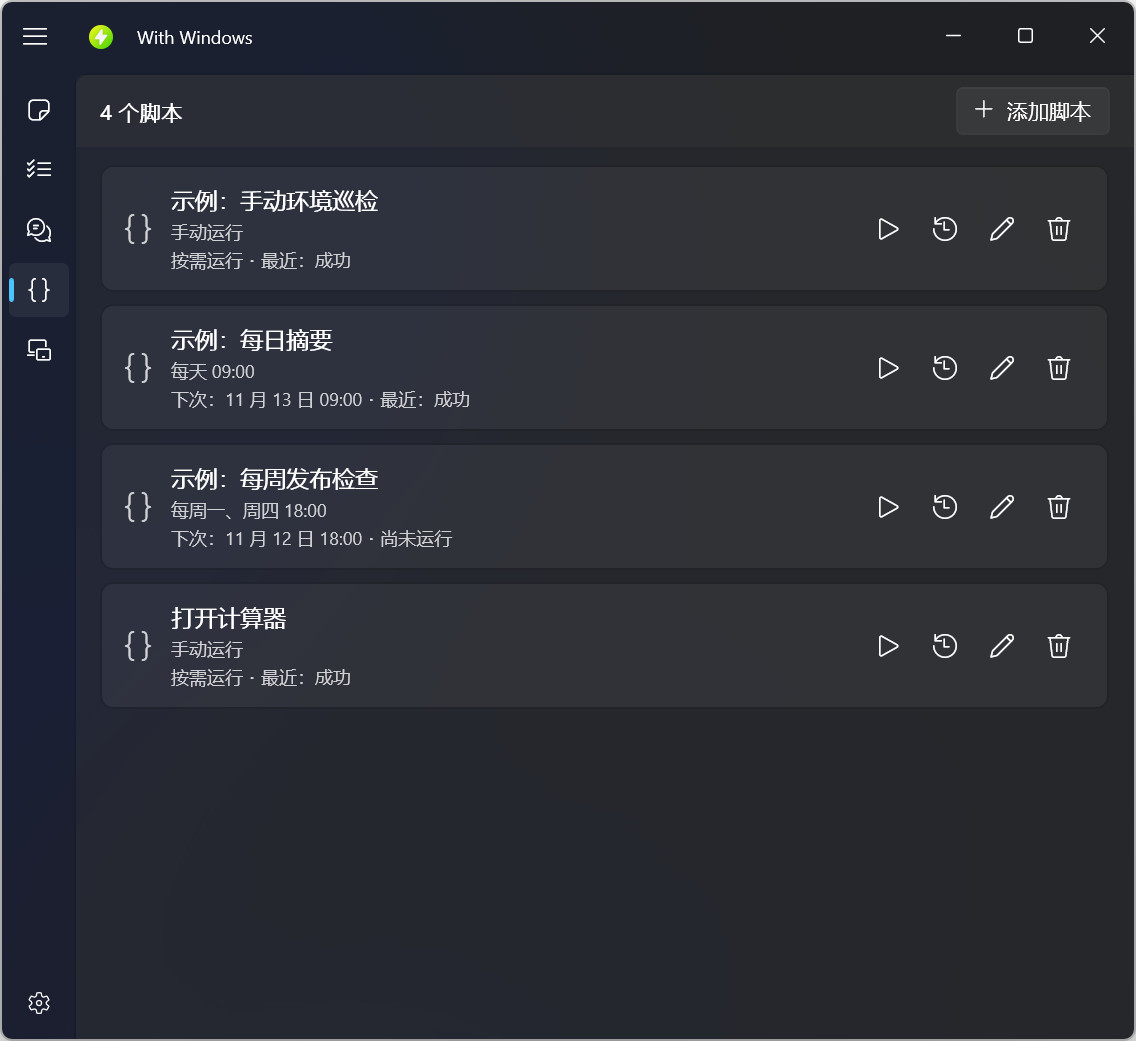
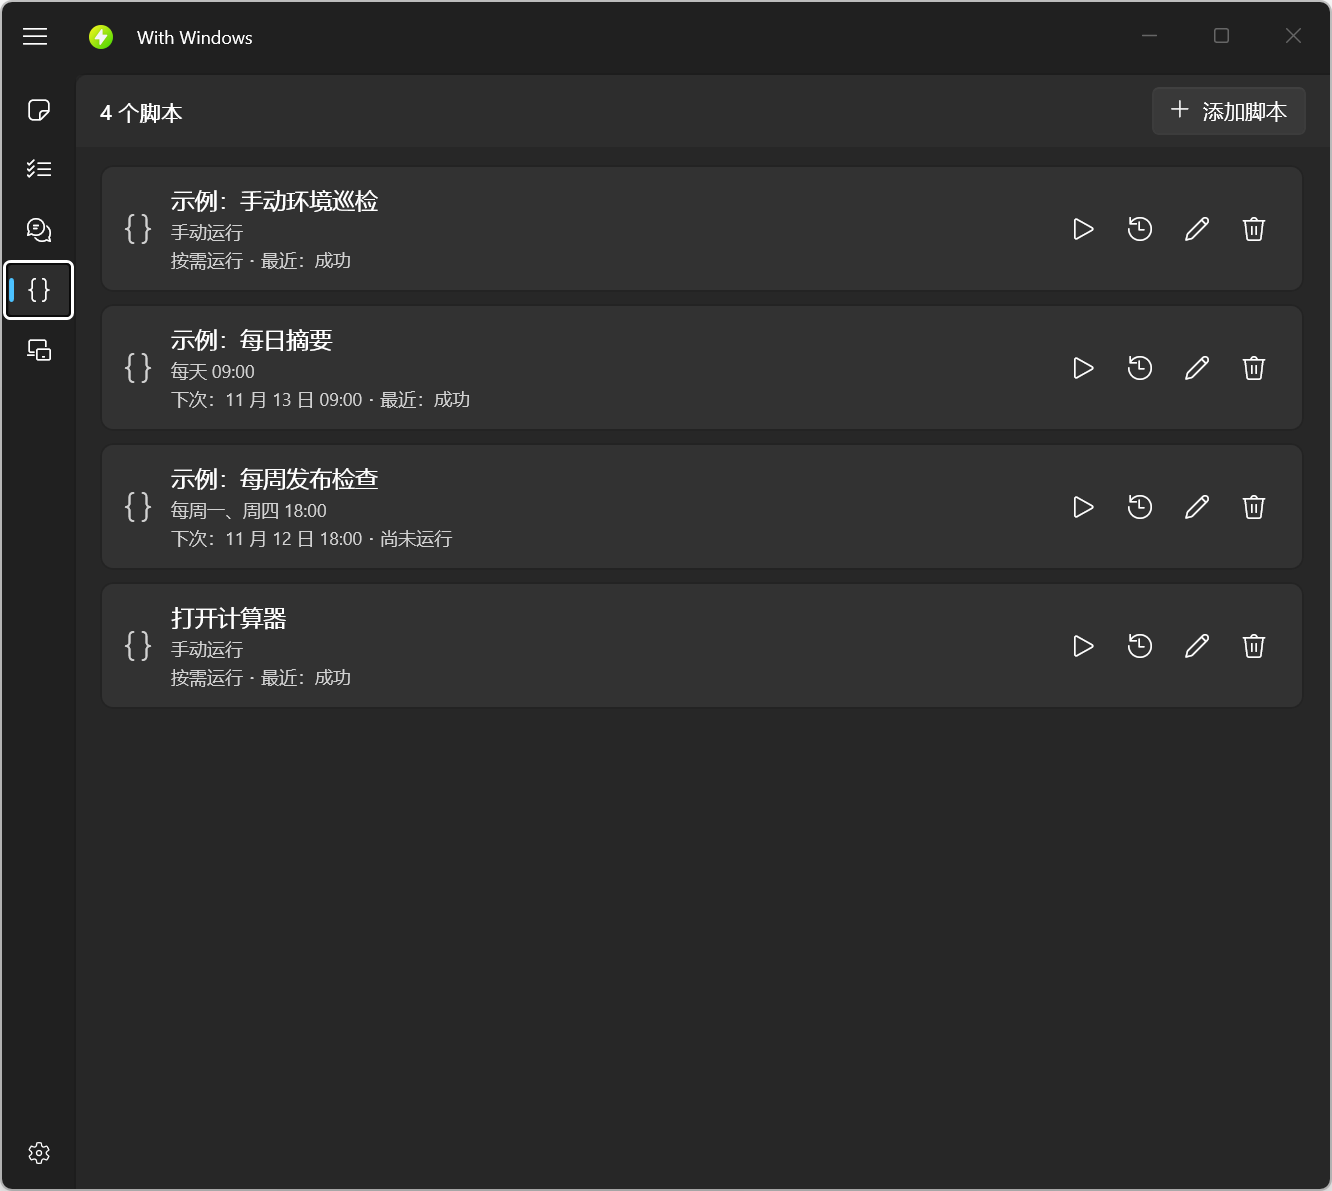
fix(界面): 修复脚本布局与导航文案

diff --git a/src/WithWindows.App/Views/ScheduledTasksPage.xaml b/src/WithWindows.App/Views/ScheduledTasksPage.xaml
@@ -171,67 +171,63 @@
         </Grid>
 
         <Grid
-            x:Name="ScheduledContentHost"
             Grid.Row="1"
-            Margin="16,12,16,16">
-            <Grid
-                Width="{Binding ActualWidth, ElementName=ScheduledContentHost}"
-                MaxWidth="{StaticResource PageContentMaxWidth}"
-                HorizontalAlignment="Center">
-                <ListView
-                    x:Name="TaskList"
-                    AutomationProperties.AutomationId="ScheduledTaskList"
-                    AutomationProperties.Name="脚本列表"
-                    ContainerContentChanging="OnTaskContainerContentChanging"
-                    HorizontalContentAlignment="Stretch"
-                    ItemTemplate="{StaticResource TaskRowTemplate}"
-                    ItemsSource="{x:Bind Tasks}"
-                    SelectionMode="None">
-                    <ListView.ItemContainerTransitions>
-                        <TransitionCollection>
-                            <AddDeleteThemeTransition />
-                            <RepositionThemeTransition />
-                        </TransitionCollection>
-                    </ListView.ItemContainerTransitions>
-                    <ListView.ItemContainerStyle>
-                        <Style TargetType="ListViewItem">
-                            <Setter Property="HorizontalContentAlignment" Value="Stretch" />
-                            <Setter Property="Padding" Value="0" />
-                            <Setter Property="Background" Value="Transparent" />
-                            <Setter Property="IsTabStop" Value="False" />
-                        </Style>
-                    </ListView.ItemContainerStyle>
-                </ListView>
+            MaxWidth="{StaticResource PageContentMaxWidth}"
+            Margin="16,12,16,16"
+            HorizontalAlignment="Stretch">
+            <ListView
+                x:Name="TaskList"
+                AutomationProperties.AutomationId="ScheduledTaskList"
+                AutomationProperties.Name="脚本列表"
+                ContainerContentChanging="OnTaskContainerContentChanging"
+                HorizontalContentAlignment="Stretch"
+                ItemTemplate="{StaticResource TaskRowTemplate}"
+                ItemsSource="{x:Bind Tasks}"
+                SelectionMode="None">
+                <ListView.ItemContainerTransitions>
+                    <TransitionCollection>
+                        <AddDeleteThemeTransition />
+                        <RepositionThemeTransition />
+                    </TransitionCollection>
+                </ListView.ItemContainerTransitions>
+                <ListView.ItemContainerStyle>
+                    <Style TargetType="ListViewItem">
+                        <Setter Property="HorizontalContentAlignment" Value="Stretch" />
+                        <Setter Property="Padding" Value="0" />
+                        <Setter Property="Background" Value="Transparent" />
+                        <Setter Property="IsTabStop" Value="False" />
+                    </Style>
+                </ListView.ItemContainerStyle>
+            </ListView>
 
-                <StackPanel
-                    x:Name="EmptyState"
-                    MaxWidth="360"
+            <StackPanel
+                x:Name="EmptyState"
+                MaxWidth="360"
+                HorizontalAlignment="Center"
+                VerticalAlignment="Center"
+                Spacing="10">
+                <FontIcon
                     HorizontalAlignment="Center"
-                    VerticalAlignment="Center"
-                    Spacing="10">
-                    <FontIcon
-                        HorizontalAlignment="Center"
-                        FontSize="42"
-                        Foreground="{ThemeResource TextFillColorSecondaryBrush}"
-                        Glyph="&#xE943;" />
-                    <TextBlock
-                        AutomationProperties.AutomationId="ScheduledTaskEmptyState"
-                        FontSize="16"
-                        FontWeight="SemiBold"
-                        Text="还没有脚本"
-                        TextAlignment="Center" />
-                </StackPanel>
+                    FontSize="42"
+                    Foreground="{ThemeResource TextFillColorSecondaryBrush}"
+                    Glyph="&#xE943;" />
+                <TextBlock
+                    AutomationProperties.AutomationId="ScheduledTaskEmptyState"
+                    FontSize="16"
+                    FontWeight="SemiBold"
+                    Text="还没有脚本"
+                    TextAlignment="Center" />
+            </StackPanel>
 
-                <InfoBar
-                    x:Name="ErrorBar"
-                    Margin="0,8,0,8"
-                    VerticalAlignment="Top"
-                    AutomationProperties.AutomationId="ScheduledTaskErrorBar"
-                    IsClosable="True"
-                    IsOpen="False"
-                    Severity="Error"
-                    Title="操作失败" />
-            </Grid>
+            <InfoBar
+                x:Name="ErrorBar"
+                Margin="0,8,0,8"
+                VerticalAlignment="Top"
+                AutomationProperties.AutomationId="ScheduledTaskErrorBar"
+                IsClosable="True"
+                IsOpen="False"
+                Severity="Error"
+                Title="操作失败" />
         </Grid>
     </Grid>
 </Page>

diff --git a/src/WithWindows.Core/Scheduling/ScheduledTaskRunExpansionState.cs b/src/WithWindows.Core/Scheduling/ScheduledTaskRunExpansionState.cs
@@ -3,19 +3,27 @@ using System.Linq;
 
 namespace WithWindows.Core.Scheduling;
 
-/// <summary>保证运行日志同时只展开一条记录。</summary>
+/// <summary>记录运行日志中可同时展开的多条记录。</summary>
 public sealed class ScheduledTaskRunExpansionState
 {
-    private readonly HashSet<string> _runIds = [];
+    private readonly List<string> _runIds = [];
+    private readonly HashSet<string> _expandedRunIds = [];
 
+    /// <summary>最近一次展开的记录，用于弹窗打开后的默认焦点。</summary>
     public string? ExpandedRunId { get; private set; }
 
     public void Reset(IReadOnlyList<string> runIds)
     {
         _runIds.Clear();
-        _runIds.UnionWith(runIds);
-        ExpandedRunId = runIds.FirstOrDefault();
+        _runIds.AddRange(runIds);
+        _expandedRunIds.Clear();
+        ExpandedRunId = _runIds.FirstOrDefault();
+        if (ExpandedRunId is { } firstRunId)
+            _expandedRunIds.Add(firstRunId);
     }
+
+    public bool IsExpanded(string runId)
+        => _expandedRunIds.Contains(runId);
 
     public void SetExpanded(string runId, bool expanded)
     {
@@ -24,11 +32,17 @@ public sealed class ScheduledTaskRunExpansionState
 
         if (expanded)
         {
+            _expandedRunIds.Add(runId);
             ExpandedRunId = runId;
         }
-        else if (ExpandedRunId == runId)
+        else
         {
-            ExpandedRunId = null;
+            _expandedRunIds.Remove(runId);
+            if (ExpandedRunId == runId)
+            {
+                ExpandedRunId = _runIds.FirstOrDefault(
+                    _expandedRunIds.Contains);
+            }
         }
     }
 }

diff --git a/src/WithWindows.App/Controls/ScheduledTaskHistoryView.xaml.cs b/src/WithWindows.App/Controls/ScheduledTaskHistoryView.xaml.cs
@@ -134,7 +134,7 @@ public sealed partial class ScheduledTaskHistoryView : UserControl
         }
 
         _runExpanders[run.Id] = expander;
-        if (_expansionState.ExpandedRunId == run.Id
+        if (_expansionState.IsExpanded(run.Id)
             && !expander.IsExpanded)
         {
             expander.IsExpanded = true;
@@ -166,19 +166,13 @@ public sealed partial class ScheduledTaskHistoryView : UserControl
         EnsureOutputPane(run.Id, sender);
         RunExpanded?.Invoke(this, run);
 
-        // Expanding 事件早于控件内部提交展开状态，立即收起兄弟项会被覆盖。
+        // Expanding 事件早于控件内部提交展开状态，延后滚动到新展开的记录。
         DispatcherQueue.TryEnqueue(() =>
         {
-            if (_expansionState.ExpandedRunId != run.Id
+            if (!_expansionState.IsExpanded(run.Id)
                 || !sender.IsExpanded)
             {
                 return;
-            }
-
-            foreach ((string runId, Expander expander) in _runExpanders)
-            {
-                if (runId != run.Id && expander.IsExpanded)
-                    expander.IsExpanded = false;
             }
 
             sender.StartBringIntoView(new BringIntoViewOptions

diff --git a/tests/WithWindows.Core.Tests/ScheduledTaskRunExpansionStateTests.cs b/tests/WithWindows.Core.Tests/ScheduledTaskRunExpansionStateTests.cs
@@ -15,13 +15,29 @@ public sealed class ScheduledTaskRunExpansionStateTests
     }
 
     [Fact]
-    public void SetExpanded_展开另一条时只保留新记录()
+    public void SetExpanded_可以同时展开多条记录()
     {
         var state = new ScheduledTaskRunExpansionState();
         state.Reset(["newest", "older"]);
 
         state.SetExpanded("older", expanded: true);
 
+        Assert.True(state.IsExpanded("newest"));
+        Assert.True(state.IsExpanded("older"));
+        Assert.Equal("older", state.ExpandedRunId);
+    }
+
+    [Fact]
+    public void SetExpanded_收起一条后其他记录仍保持展开()
+    {
+        var state = new ScheduledTaskRunExpansionState();
+        state.Reset(["newest", "older"]);
+        state.SetExpanded("older", expanded: true);
+
+        state.SetExpanded("newest", expanded: false);
+
+        Assert.False(state.IsExpanded("newest"));
+        Assert.True(state.IsExpanded("older"));
         Assert.Equal("older", state.ExpandedRunId);
     }
 

diff --git a/src/WithWindows.App/Tools/ToolCatalog.cs b/src/WithWindows.App/Tools/ToolCatalog.cs
@@ -38,7 +38,7 @@ public static class ToolCatalog
         // E9D5 = CheckList（WinUI Gallery 图标表，tags: tasks, items, organize, progress）
         new ToolEntry(TodoId, "待办", "\uE9D5", typeof(TodoPage), ShowInNav: true, HasHotkey: false),
         // E8F2 = ChatBubbles（WinUI Gallery 图标表，tags: chat, messages）
-        new ToolEntry(AiChatId, "AI 对话", "\uE8F2", typeof(ChatPage), ShowInNav: true, HasHotkey: false),
+        new ToolEntry(AiChatId, "对话", "\uE8F2", typeof(ChatPage), ShowInNav: true, HasHotkey: false),
         // E943 = Code（WinUI Gallery 图标表，tags: bracket, slash）
         new ToolEntry(ScheduledId, "脚本", "\uE943", typeof(ScheduledTasksPage), ShowInNav: true, HasHotkey: false),
         // E975 = Devices2（WinUI Gallery 图标表，tags: displays, hardware）

diff --git a/src/WithWindows.Core/Actions/DisplayModeAction.cs b/src/WithWindows.Core/Actions/DisplayModeAction.cs
@@ -55,7 +55,7 @@ public sealed class DisplayModeAction : IAction
     }
 
     internal static string ToggleMenuText(string? current, string[] toggleModes)
-        => $"切换：{MenuModeDisplayName(PickToggleTarget(current, toggleModes))}";
+        => MenuModeDisplayName(PickToggleTarget(current, toggleModes));
 
     /// <summary>模式名 → SDC_TOPOLOGY_* 标志数值。供测试断言。</summary>
     internal static uint TopologyFor(string mode) => mode switch

diff --git a/tests/WithWindows.Core.Tests/DisplayModeActionTests.cs b/tests/WithWindows.Core.Tests/DisplayModeActionTests.cs
@@ -81,8 +81,8 @@ public class DisplayModeActionTests
     }
 
     [Theory]
-    [InlineData("internal", "切换：扩展模式")]
-    [InlineData("extend", "切换：当前屏幕")]
+    [InlineData("internal", "扩展模式")]
+    [InlineData("extend", "当前屏幕")]
     public void ToggleMenuText_显示下一次切换目标(string current, string expected)
         => Assert.Equal(
             expected,

diff --git a/CHANGELOG.md b/CHANGELOG.md
@@ -1,5 +1,15 @@
 # 更新日志
 
+## [v0.10.1] - 2026-11-12
+
+### 修复
+- 修复脚本页列表宽度被父容器旧 `ActualWidth` 绑定锁住、窗口缩放后不跟随变化的问题
+- 修复脚本运行日志展开新记录时会自动收起其他记录的问题，现在可同时展开多条记录
+
+### 变更
+- 侧栏“AI 对话”入口统一改为“对话”
+- 托盘菜单的模式切换入口去掉“切换：”前缀，直接显示目标模式
+
 ## [v0.10.0] - 2026-11-12
 
 ### 新增
